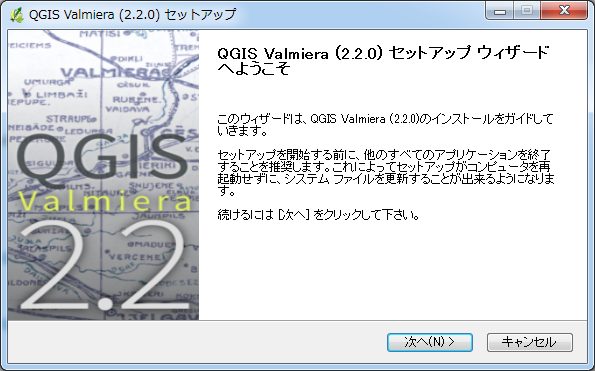
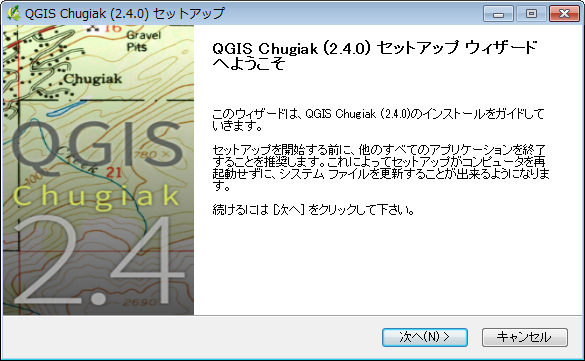
appendix1-7までの校正反映

diff --git a/appendix1/appendix1-6.md b/appendix1/appendix1-6.md
@@ -1,81 +1,11 @@
-## 新規レイヤの作成
+## 新規レイヤの作成
+### ベクトルレイヤの新規作成
+新規にShapefileの作成を行い、レイヤに追加します。
+メニューから【レイヤ】→【新規】→【新しいシェプファイルレイヤ】を選択してください。
+![新規レイヤ](./img/appendix1-6-11.png)
 
-新規にレイヤーを作成してみましょう。
-
-### .1
-![新規レイヤ](./img/appendix1-6-11.png).
-
-【レイヤ】をクリックするとドロップダウンリストが開くので〔新規〕上にマウスカーソルを置きます。
-すると新たにドロップダウンリストが開くので【新しいシェプファイルレイヤ】をクリックしてください。
-
+図のようなウィンドウが開くので、作成するレイヤのタイプを指定します。1つのレイヤへは1つの図形タイプしか入れられません。「点」「ライン」「ポリゴン」から選択します。「属性リスト」にはデフォルトでinteger(整数)型のidが設定されています。必要に応じて、「新しい属性」へ「名称」「タイプ」「幅」を入力し『属性リストに追加する』から、属性を追加してください。
 ![新規レイヤ](./img/appendix1-6-12.png).
 
-図のようなウィンドウが開くので、編集するレイヤのタイプを指定します。今回は、サンプルとして点を選択します。
-新しい属性の欄に、名称欄に作成するレイヤの名称を記入します。今回は仮にpointとしました。
-ウィンドウ右下の『OK』をクリックしてください。
-レイヤの種別に関しては、4章で詳しく記述します。
+「新たに名前を付けて保存」ウィンドウが開きます。保存するデータのファイル名とディレクトリを決定して保存します。
 
-![新規レイヤ](./img/appendix1-6-13.png).
-新たに名前を付けて保存ウィンドウが開きます。保存するデータのファイル名とディレクトリを決定して保存します。
-今回はappendix1-6というディレクトリを作成して、そのディレクトリに保存します。画面右上の保存する場所の欄に保存先のディレクトリを指定します。
-ファイル名の欄にpointと記入して『保存』をクリックしてください。
-
-![新規レイヤ](./img/appendix1-6-14.png).
-
-保存されたデータは複数のファイルで構成され、保存した時に決定したファイル名と、それぞれの拡張子がつき保存されます。ただし、データ自体は未編集なので空のデータセットとして保存されています。
-
-![新規レイヤ](./img/appendix1-6-15.png).
-
-QGISの画面上には、ポイントデータのレイヤが表示されていると思います。ただし、既述のように、データセットの中身はありません。編集方法などに関しては別途解説します。
-
-### .2
-前項で触れたプラグインの管理とインストールから、OpenLayers Pluginが入っていることを確認してください。無い場合は追加してください。
-
-![プラグイン](./img/appendix1-6-1.png).
-
-追加後に、【プラグイン】をクリックすると図のようなドロップダウンリストが開きます。
-
-![プラグイン](./img/appendix1-6-2.png).
-
-下図のように、Google, OpenStreetMap, Yahoo, Being(MicroSoft), Apple
-が提供するマップを使用することが出来ることが確認されたかと思います。
-下図はGooglePhisicalLayerを読み込んでみたものです。
-
-【プラグイン】をクリックして開いたドロップダウンリストから〔GooglePhisicalLayer〕をクリックします。
-
-![プラグイン](./img/appendix1-6-3.png).
-
-### .3
-
-農研機構の公開するWMSサーバーから地図データを取得して、初期レイヤーとしてセットしてみましょう。
-
-http://www.finds.jp/wsdocs/kibanwms/index.html.ja
-
-![プラグイン](./img/appendix1-6-4.png).
-
-画面中段にある、ご使用ガイドをクリックしてください。
-
-![プラグイン](./img/appendix1-6-5.png).
-
-画面上段にある、
-
-- http://www.finds.jp/ws/kiban25000wms.cgi?
-- http://www.finds.jp/ws/kiban2500wms.cgi?
-
-という2つのアドレスが確認できるかと思います。今回は上の方のアドレスを使ってみましょう。
-QGISの【WMS/WMTSレイヤの追加】というアイコンをクリックしてください。
-![プラグイン](./img/appendix1-6-6.png).
-
-![プラグイン](./img/appendix1-6-7.png).
-
-WM(T)Sサーバーからレイヤを追加というウィンドウが開くので、『新規』ボタンをクリックしてください。新しいWMSコネクションの作成ウィンドウが開いたら、以下のように記入してください。
-
-![プラグイン](./img/appendix1-6-8.png).
-
-新しいWMSコネクションの作成ウィンドウの右下の『OK』をクリックすると、以下のようなWM(T)Sサーバーからレイヤを追加というウィンドウが開くので、追加したいレイヤを選択してクリックしてください。その後、ウィンドウ内右下の『追加(A)』ボタンをクリックしてください。今回はIDの欄が0をクリックして追加します。
-
-![プラグイン](./img/appendix1-6-9.png).
-
-下図のように表示されることが確認できるかと思います。
-
-![プラグイン](./img/appendix1-6-10.png).

diff --git a/appendix1/appendix1-2.md b/appendix1/appendix1-2.md
@@ -1,16 +1,16 @@
-## インストール
+## インストール
 ###Windows
-QGIS Windows版は以下のサイトからインストーラーをダウンロードしてから実行します。QGISを単体でインストールしたい場合は上段のサイトから、お使いのwindowsのバージョンに対応したものを選択してダウンロードしてください。QGIS公式サイト内からネットワークインストーラー、もしくはOSGeo4Wページからインストール作業を行う場合は、特段の事情がない限りデスクトップ エクスプレス インストールを推奨します。
+QGIS Windows版はQGISのホームページからインストーラーをダウンロードしてから実行します。QGISを単体でインストールしたい場合は上段のサイトから、お使いのwindowsのバージョンに対応したものを選択してダウンロードしてください。QGIS公式サイト内からネットワークインストーラー、もしくはOSGeo4Wページからインストール作業を行う場合は、特段の事情がない限りデスクトップ エクスプレス インストールを推奨します。
 
 http://www.qgis.org/ja/site/forusers/download.html
-<img src="img/appendix1-2-2.png">
+![Win版](img/appendix1-2-2.png)
 
 http://trac.osgeo.org/osgeo4w/wiki/OSGeo4W_jp
-<img src="img/appendix1-2-1.png">
+![OSGeo4W](img/appendix1-2-1.png)
 
-今回は、QGIS Standalone Installerを使用したインストールを紹介します。
+ここでは、QGIS Standalone Installerを使用したインストールを紹介します。
 
-インストーラーをダウンロードすると、QGISロゴのアイコンで象徴される実行ファイルが表示されるかと思います。
+インストーラーをダウンロードすると、QGISロゴのアイコンで表される実行ファイルが表示されます。
 <div align="left"><img src="img/installer.png"></div>
 
 このファイルを実行してください。
@@ -25,7 +25,7 @@ http://trac.osgeo.org/osgeo4w/wiki/OSGeo4W_jp
 
 <img src="img/appendix1-2-5.png">
 
-インストール先のフォルダを参照します。今回はデフォルトのままインストールを行います。デフォルトの場合はCドライブのProgram Files直下に、QGIS Valmeriaを作成してインストールします。インストール先のディレクトリを確認してから、次へをクリックしてください。
+インストール先のフォルダを参照します。今回はデフォルトのままインストールを行います。デフォルトの場合はCドライブのProgram Files (x86)直下に、QGIS Chugiakを作成してインストールします。インストール先のディレクトリを確認してから、次へをクリックしてください。
 
 <img src="img/appendix1-2-6.png">
 
@@ -36,9 +36,10 @@ http://trac.osgeo.org/osgeo4w/wiki/OSGeo4W_jp
 セットアップウィザードは完了しましたと表示されれば、セットアップは完了しています。デスクトップにショートカットランチャーが作成されていることを確認し、起動してください。
  
 ###Mac
-QGIS Mac版は以下のサイトから必要なファイルをダウンロードしてからインストールを行います。2014年6月現在、OS X Lion、Mt Lion、Mavericksに対応しています。
+QGIS Mac版は以下のホームページから必要なファイルをダウンロードしてからインストールを行います。2014年8月現在、OS X Lion、Mt Lion、Mavericksに対応しています。
 
 http://www.kyngchaos.com/software/qgis
+![Mac版](img/appendix1-2-8.png)
 
 まず、以下のファイルをダウンロードします。
 
@@ -58,7 +59,7 @@ http://www.kyngchaos.com/software/qgis
 
 QGIS本体:
 
- - QGIS 2.2.0-9
+ - QGIS 2.4.0-1
 
 ファイルをダウンロードしたら、上から順番にインストールします。ダウンロードしたdmgファイルをダブルクリックして、中身のpkgファイルをダブルクリックするとインストールが始まります。
 

diff --git a/appendix1/appendix1-6-2.md b/appendix1/appendix1-6-2.md
@@ -1,0 +1,49 @@
+## 特殊なレイヤを追加する
+### OpenLayersプラグインからの追加
+前項で触れたプラグインの管理とインストールから、OpenLayers Pluginが入っていることを確認してください。無い場合は追加してください。
+
+![プラグイン](./img/appendix1-6-1.png).
+
+追加後に、【Web】→【Openlayers plugin】を選択すると図のようなドロップダウンリストが開きます。
+
+![プラグイン](./img/appendix1-6-2.png).
+
+Google, OpenStreetMap, Yahoo, Bing(MicroSoft), Appleが提供するマップを使用することが出来ます。
+下図は、【Google Maps】→【GooglePhisical】を読み込んでみた例です。
+
+![プラグイン](./img/appendix1-6-3.png).
+
+### WMSサーバからの追加
+
+農研機構の公開するWMSサーバーを例に、地図データを取得して初期レイヤーとしてセットしてみましょう。
+
+http://www.finds.jp/wsdocs/kibanwms/index.html.ja
+
+![プラグイン](./img/appendix1-6-4.png).
+
+画面中段にある、ご使用ガイドをクリックしてください。
+
+![プラグイン](./img/appendix1-6-5.png).
+
+画面上段にある、
+
+- http://www.finds.jp/ws/kiban25000wms.cgi?
+- http://www.finds.jp/ws/kiban2500wms.cgi?
+
+という2つのアドレスが確認できます。今回は上の方のアドレスを使ってみましょう。
+QGISのメニューから【レイヤ】→【WMS/WMTSレイヤの追加】を選択します。
+![プラグイン](./img/appendix1-6-6.png).
+
+![プラグイン](./img/appendix1-6-7.png).
+
+WM(T)Sサーバーからレイヤを追加というウィンドウが開くので、『新規』ボタンをクリックしてください。新しいWMSコネクションの作成ウィンドウが開いたら、以下のように記入してください。
+
+![プラグイン](./img/appendix1-6-8.png).
+
+新しいWMSコネクションの作成ウィンドウの右下の『OK』をクリックすると、以下のようなWM(T)Sサーバーからレイヤを追加というウィンドウが開くので、追加したいレイヤを選択してクリックしてください。その後、ウィンドウ内右下の『追加(A)』ボタンをクリックしてください。今回はIDの欄が0をクリックして追加します。
+
+![プラグイン](./img/appendix1-6-9.png).
+
+下図のように表示されることを確認してください。
+
+![プラグイン](./img/appendix1-6-10.png).

diff --git a/index.md b/index.md
@@ -177,9 +177,10 @@
  * e. [プラグインを設定する](https://github.com/Arctictern265/QGIS_book/blob/master/appendix1/appendix1-5.md)
  * f. [新規レイヤを作成する](https://github.com/Arctictern265/QGIS_book/blob/master/appendix1/appendix1-6.md)
  * g. [ファイルをレイヤに追加する](https://github.com/Arctictern265/QGIS_book/blob/master/appendix1/appendix1-7.md)
+ * g'. [特殊なレイヤを追加する](https://github.com/Arctictern265/QGIS_book/blob/master/appendix1/appendix1-6-2.md)
  * h. [レイヤにスタイルを設定する](https://github.com/Arctictern265/QGIS_book/blob/master/appendix1/appendix1-8.md)
  * i. [レイヤを編集する](https://github.com/Arctictern265/QGIS_book/blob/master/appendix1/appendix1-9.md)
- * j. レイヤを保存する
+ * j.  [レイヤを保存する]](https://github.com/Arctictern265/QGIS_book/blob/master/appendix1/appendix1-10.md)
  * k. [ベクタ演算例](https://github.com/Arctictern265/QGIS_book/blob/master/appendix1/appendix1-11.md)
  * l. [ラスタ演算例](https://github.com/Arctictern265/QGIS_book/blob/master/appendix1/appendix1-12.md)
  * m. [印刷する](https://github.com/Arctictern265/QGIS_book/blob/master/appendix1/appendix1-13.md)

diff --git a/appendix1/appendix1-10.md b/appendix1/appendix1-10.md
@@ -1,0 +1,7 @@
+##レイヤを保存する
+プロジェクトに表示している各レイヤへは、編集作業後に元ファイルへの保存を行うかの確認が行われ、上書きでの保存が行われます。これとは別に、特定のレイヤを指定して、別名称やフォーマットを変更しての保存も可能です。
+対象レイヤを右クリックして【名前を付けて保存】を選択します。
+![名前を付けて保存](img/appendix1-10-1.png)
+
+ファイルフォーマットや、ファイル名を指定することが出来るダイアログが表示されます。必要に応じて項目を埋めて、保存を行ってください。
+![必要な情報の入力](img/appendix1-10-2.png)
